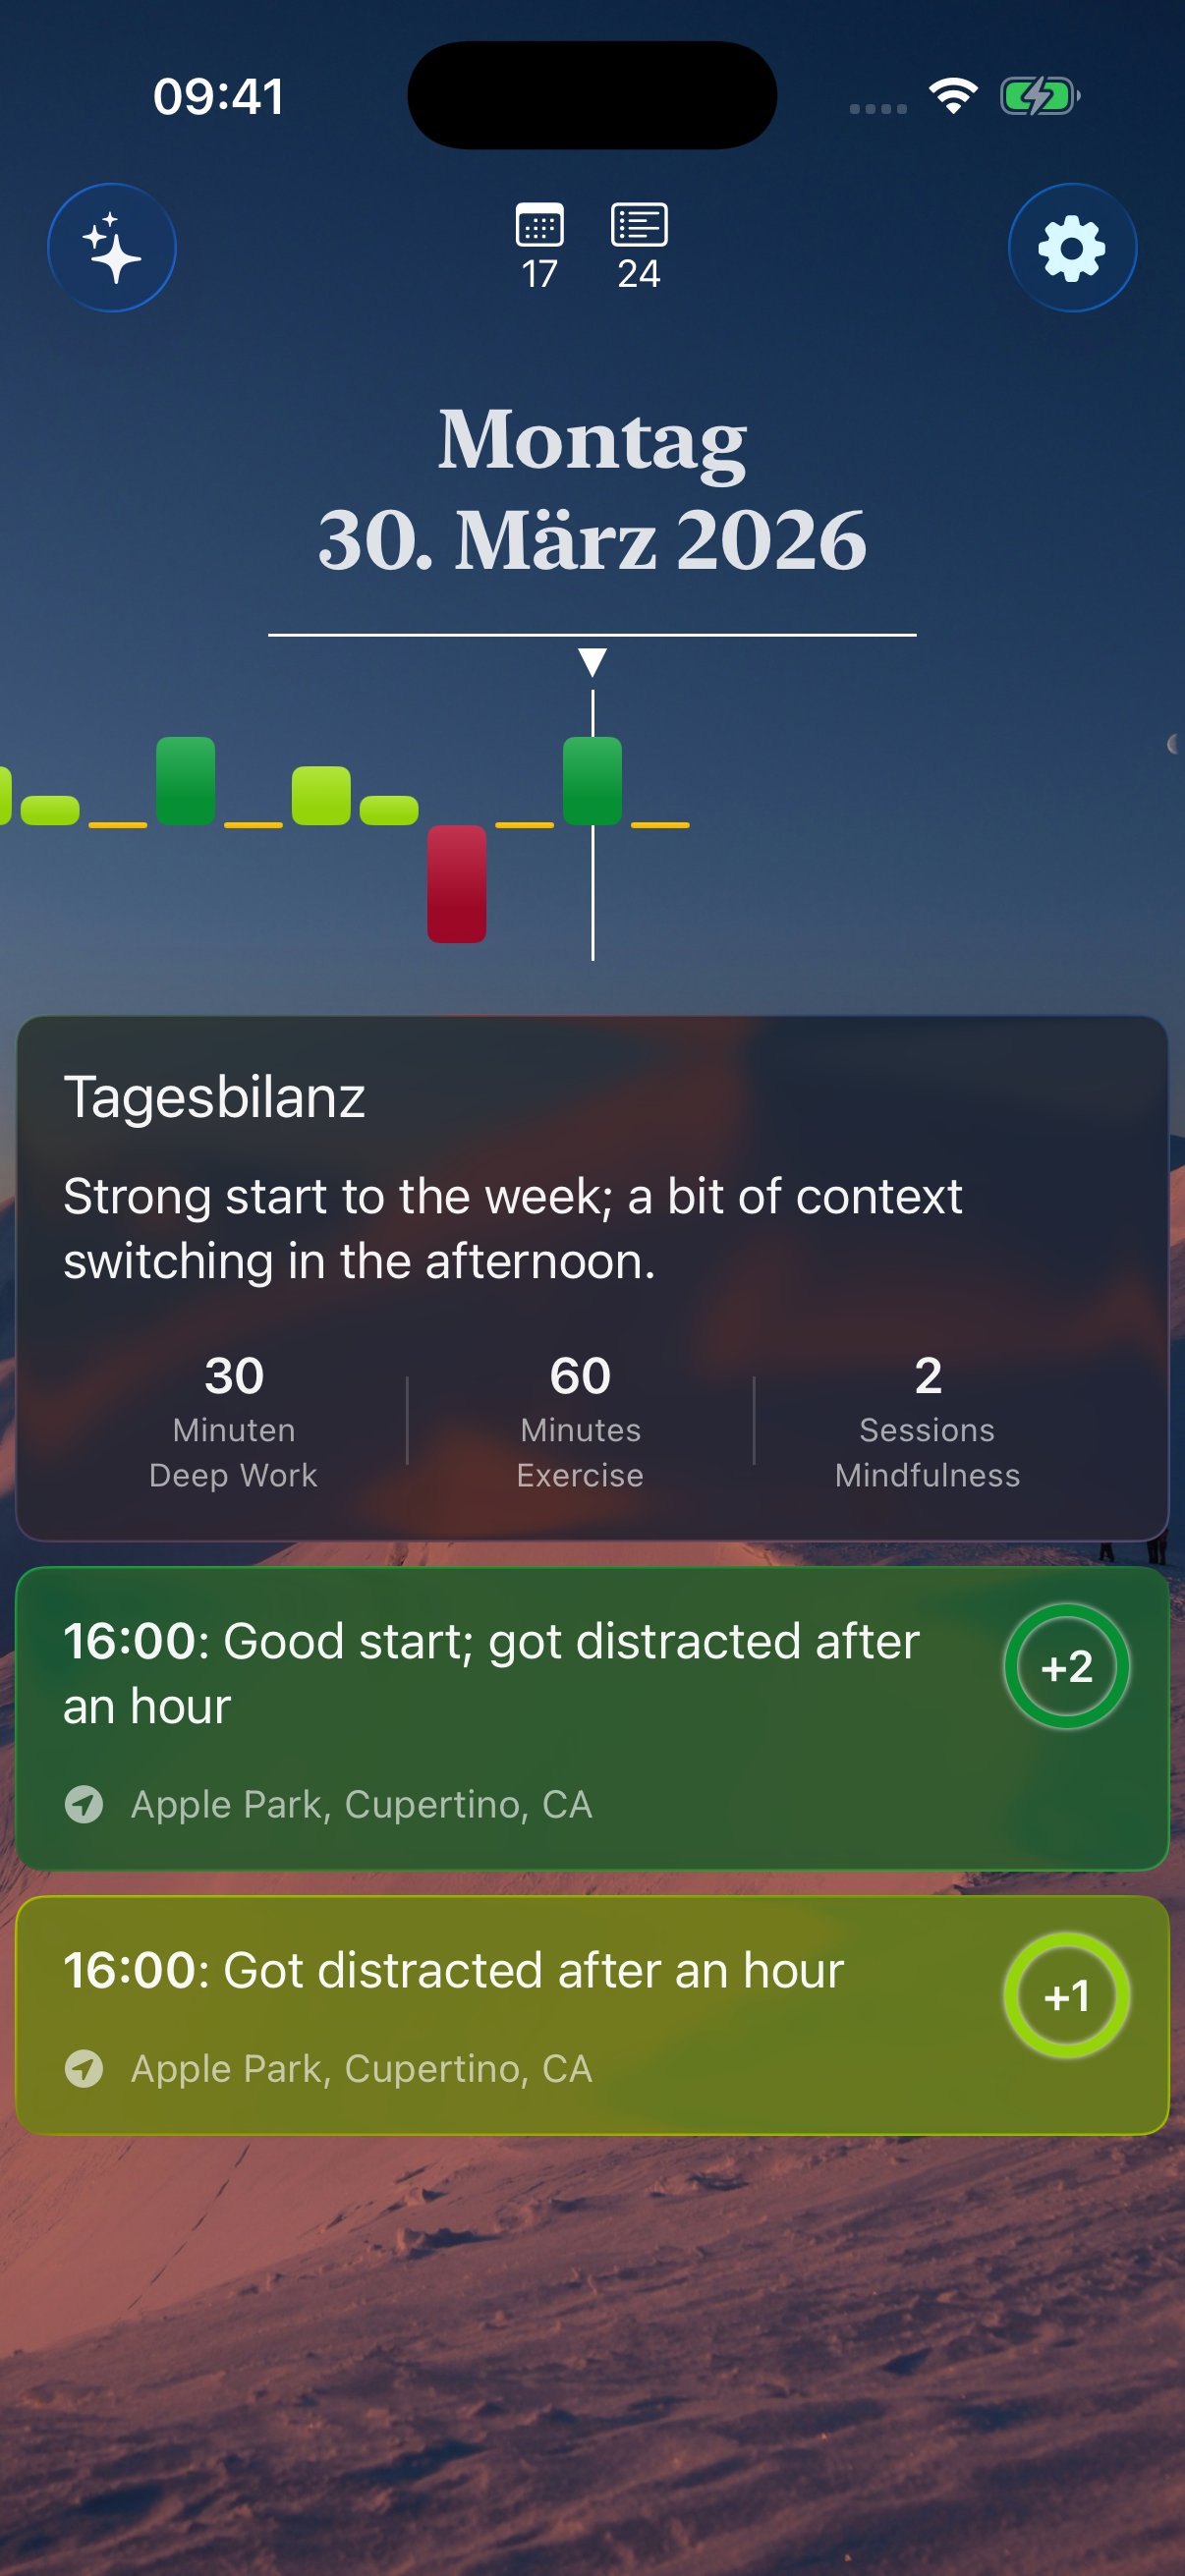
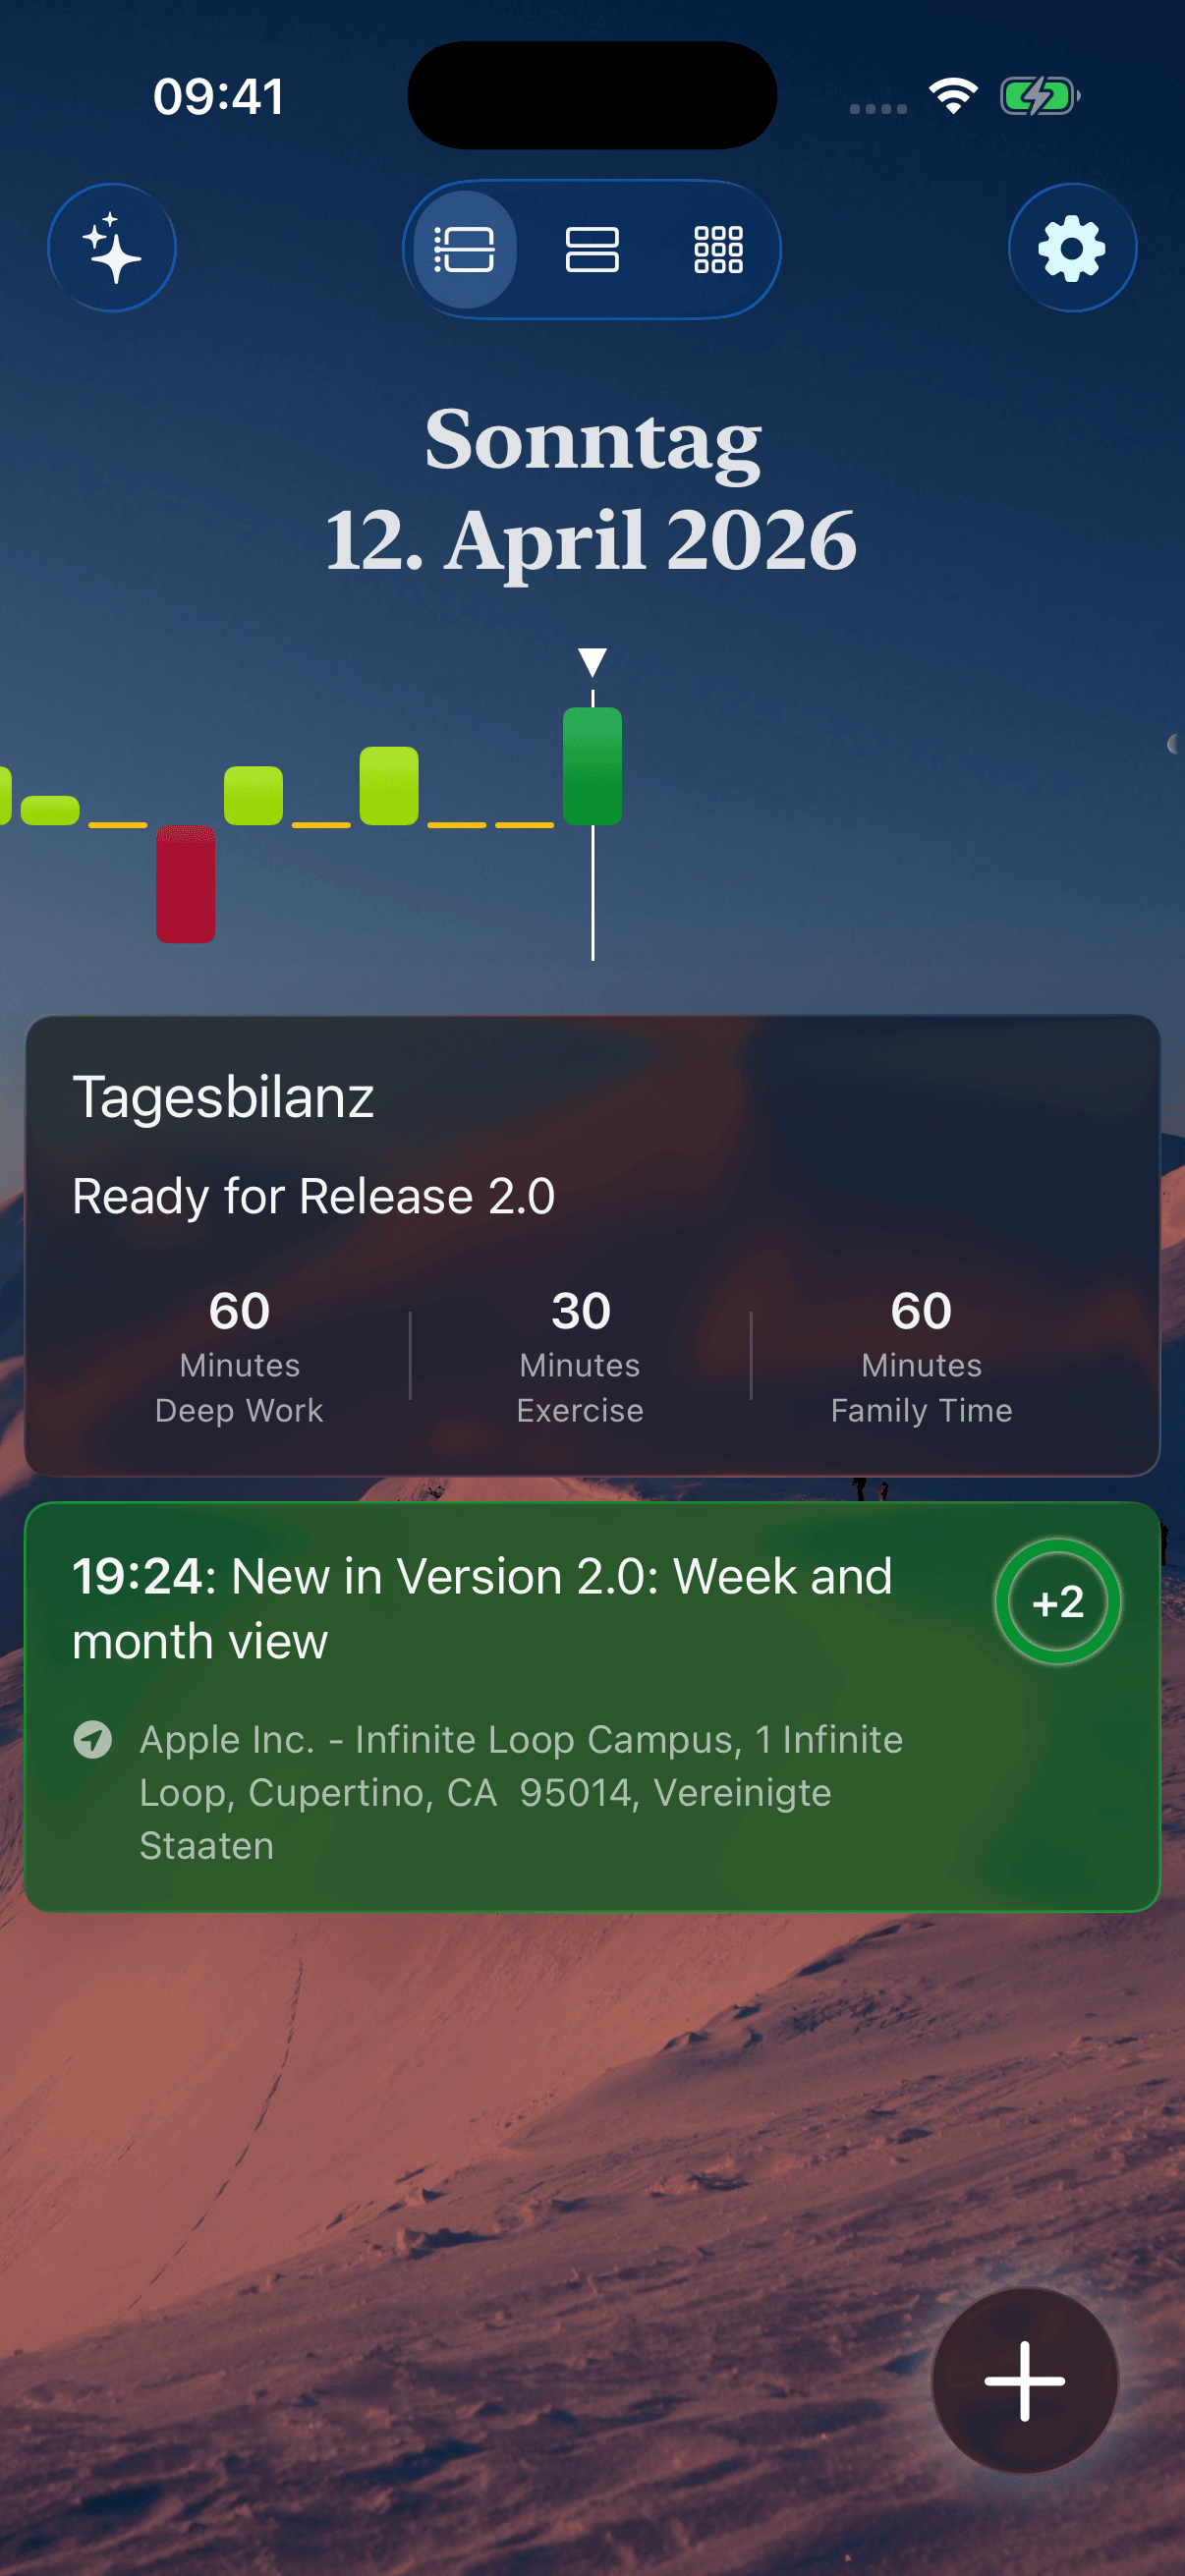
Docs: update landing page screenshots and layout for v2.0
- Add screenshot-week.png and screenshot-month.png to landing page
- Update screenshot-timeline.png
- Switch screenshots grid from flex to 3-column CSS grid (2-column on mobile)
- Update Butterkit artboard assets

diff --git a/landing/index.html b/landing/index.html
@@ -150,15 +150,20 @@
     }
 
     .screenshots-grid {
-      display: flex;
-      gap: 20px;
-      justify-content: center;
-      flex-wrap: wrap;
+      display: grid;
+      grid-template-columns: repeat(3, 1fr);
+      gap: 16px;
+    }
+
+    @media (max-width: 540px) {
+      .screenshots-grid {
+        grid-template-columns: repeat(2, 1fr);
+        gap: 10px;
+      }
     }
 
     .phone-frame {
-      width: 200px;
-      flex-shrink: 0;
+      width: 100%;
       background: var(--surface);
       border: 1px solid var(--border);
       border-radius: 34px;
@@ -438,7 +443,6 @@
     @media (max-width: 600px) {
       .privacy-banner-inner { flex-direction: column; padding: 24px; }
       .policy-box { padding: 24px; }
-      .phone-frame { width: 150px; }
       nav { padding: 12px 16px; }
     }
   </style>
@@ -485,6 +489,12 @@
   <div class="screenshots-grid">
     <div class="phone-frame">
         <img src="screenshot-timeline.png" alt="Timeline" />
+    </div>
+    <div class="phone-frame">
+        <img src="screenshot-week.png" alt="Week View" />
+    </div>
+    <div class="phone-frame">
+        <img src="screenshot-month.png" alt="Month View" />
     </div>
     <div class="phone-frame">
         <img src="screenshot-moment.png" alt="Moment" />